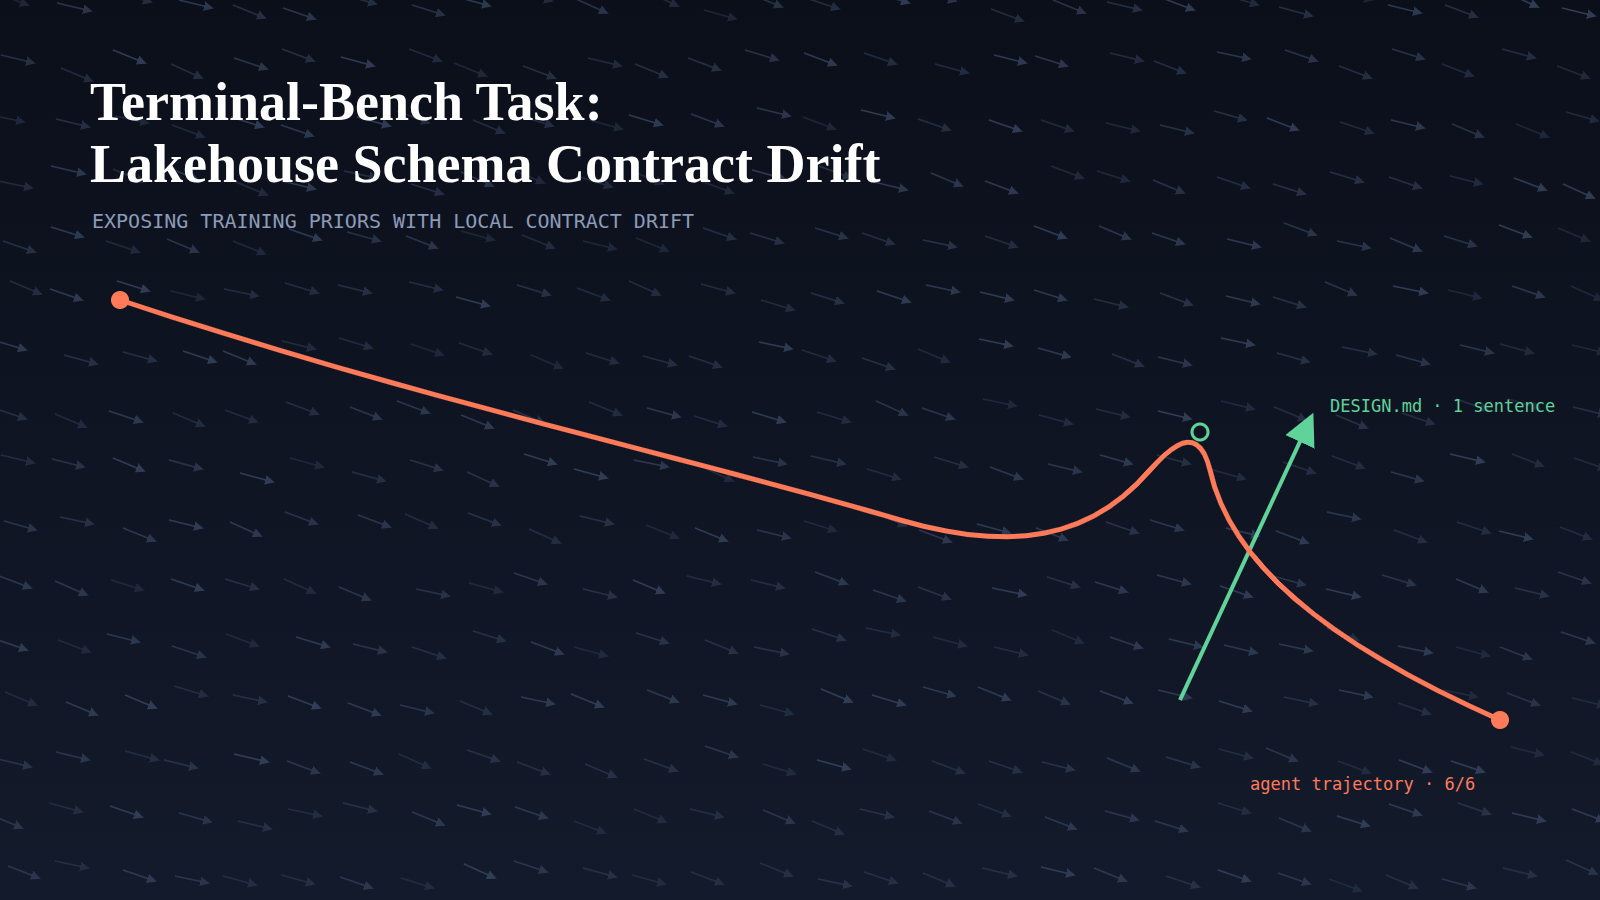
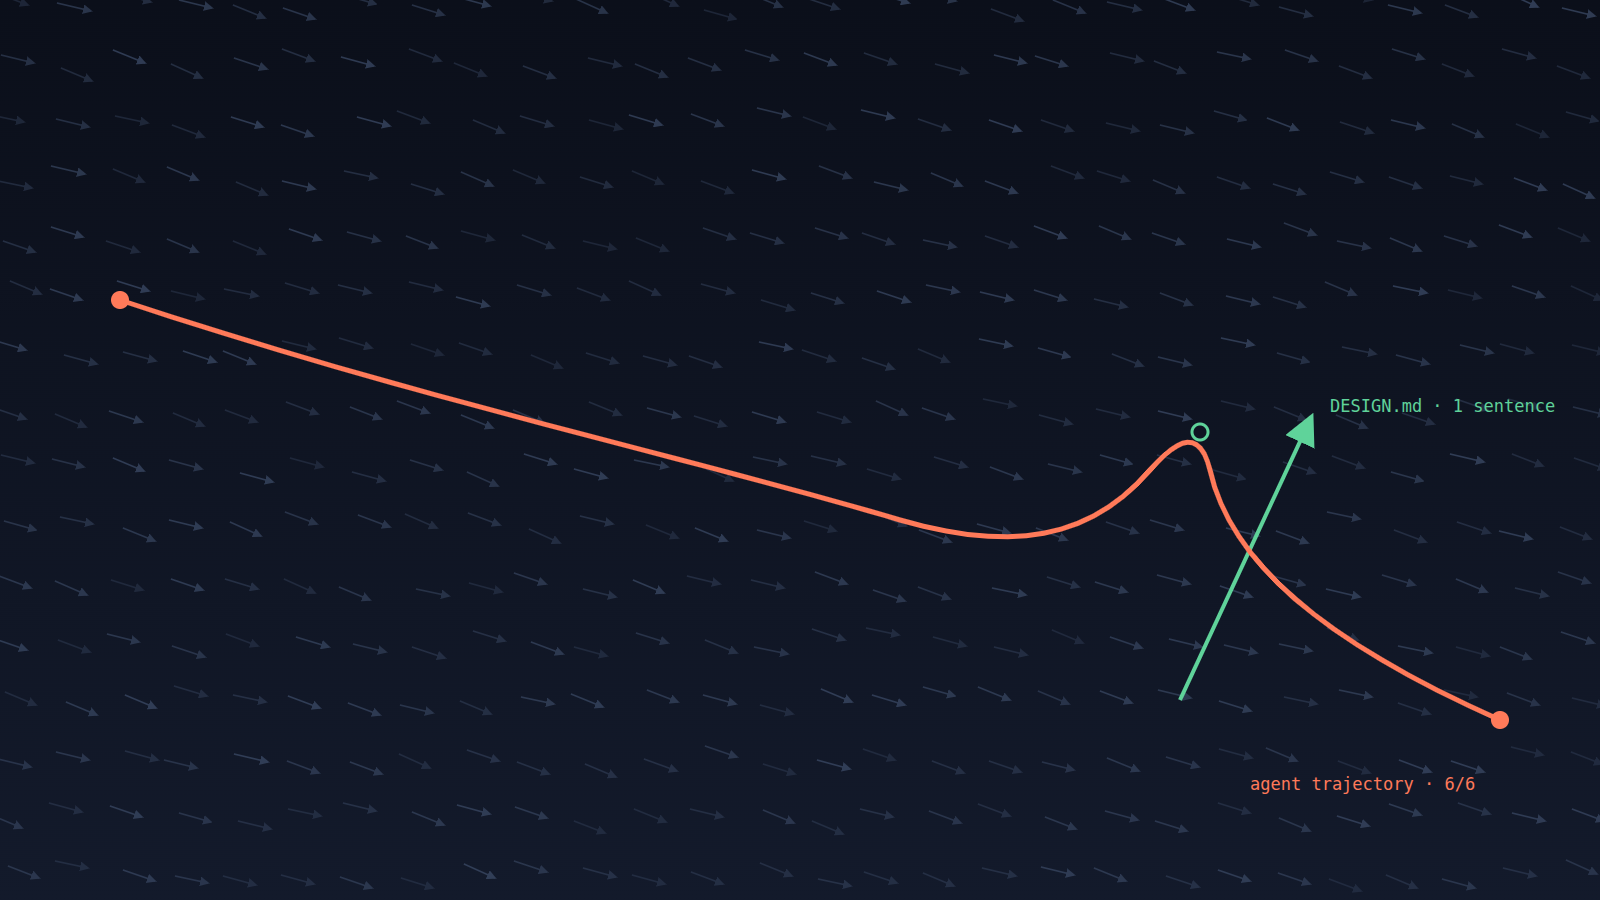
Article header becomes the hero: image backdrop with the title over it.
New hero/hero_dark frontmatter renders the article header as a
theme-aware background image behind kicker, series, title, dek and
meta; the hero also feeds og:image. Lakehouse post uses the field
image without its baked-in title, dek is now 'An unofficial Terminal
Bench Task Counterexample'. styles.css cache-bust v=19.

Changed region(s): [[0.0625, 0.0933, 0.5625, 0.2489]]

diff --git a/src/styles.css b/src/styles.css
@@ -184,6 +184,13 @@ section.home { padding: 3rem 0 0; }
 .article > :not(figure.wide), .writing-body > :not(figure.wide) { max-width: var(--prose); }
 .article-head { padding-top: 4rem; }
 .article-head .kicker { margin-top: 0; }
+/* hero header: image backdrop with the title over it */
+.article-head.has-hero { position: relative; margin-top: 2.5rem; padding: 3.5rem 2.5rem 2.25rem; min-height: 26rem; display: flex; flex-direction: column; justify-content: flex-end; border-radius: 14px; overflow: hidden; background-image: var(--hero-light); background-size: cover; background-position: center; border: 1px solid var(--line); }
+[data-theme="dark"] .article-head.has-hero { background-image: var(--hero-dark); }
+.article-head.has-hero::before { content: ''; position: absolute; inset: 0; background: linear-gradient(90deg, rgba(247,245,239,.92) 0%, rgba(247,245,239,.72) 55%, rgba(247,245,239,.15) 100%); pointer-events: none; }
+[data-theme="dark"] .article-head.has-hero::before { background: linear-gradient(90deg, rgba(11,15,26,.92) 0%, rgba(11,15,26,.72) 55%, rgba(11,15,26,.15) 100%); }
+.article-head.has-hero > * { position: relative; max-width: 34rem; }
+.article-head.has-hero .meta { border-bottom: 0; padding-bottom: 0; margin-bottom: 0; }
 h1.title { font-family: var(--font-serif); font-weight: 500; font-size: 2.9rem; line-height: 1.08; letter-spacing: -.02em; margin: 0 0 1rem; text-wrap: balance; }
 .dek { font-family: var(--font-serif); font-size: 1.3rem; line-height: 1.4; color: var(--text-2); margin: 0 0 1.5rem; text-wrap: pretty; }
 .meta { font-size: .85rem; color: var(--text-3); display: flex; gap: .6rem; flex-wrap: wrap; padding-bottom: 2.5rem; border-bottom: 1px solid var(--line); margin-bottom: 2.5rem; }
@@ -221,6 +228,7 @@ figure.wide { width: 100%; max-width: 100%; }
   .article > div.writing-body.writing-body { max-width: none; }
   /* wider text column in articles, and figures centered on that column */
   .writing-body > :not(figure.wide) { max-width: var(--prose-article); }
+  .article > header.article-head.has-hero { max-width: var(--prose-article); }
   .writing-body figure.wide { width: min(var(--prose-article), 100%); max-width: none; margin-left: 0; }
   .writing-body figure.wide > img { margin: 0 auto; }
 }

diff --git a/src/writings/terminal-bench-task-lakehouse-schema-contract-drift.md b/src/writings/terminal-bench-task-lakehouse-schema-contract-drift.md
@@ -2,7 +2,7 @@
 title: "Terminal-Bench Task: Lakehouse Schema Contract Drift"
 date: "2026-09-10"
 collection: latest
-description: "A Terminal Bench Task Counterexample"
+description: "An unofficial Terminal Bench Task Counterexample"
 tags:
   - writing
   - latest
@@ -16,9 +16,9 @@ source_platform: github
 slug: terminal-bench-task-lakehouse-schema-contract-drift
 series: Evals
 series_index: 1
+hero: /assets/images/lakehouse-priors-hero.png
+hero_dark: /assets/images/lakehouse-priors-hero.dark.png
 ---
-
-![A field of arrows pulling one way, a single green contract line pointing the other, and an agent trajectory that bends toward the contract then falls back](/assets/images/lakehouse-priors-hero.png)
 
 ## Research Question - Learned Conventions as behavioral priors
 
